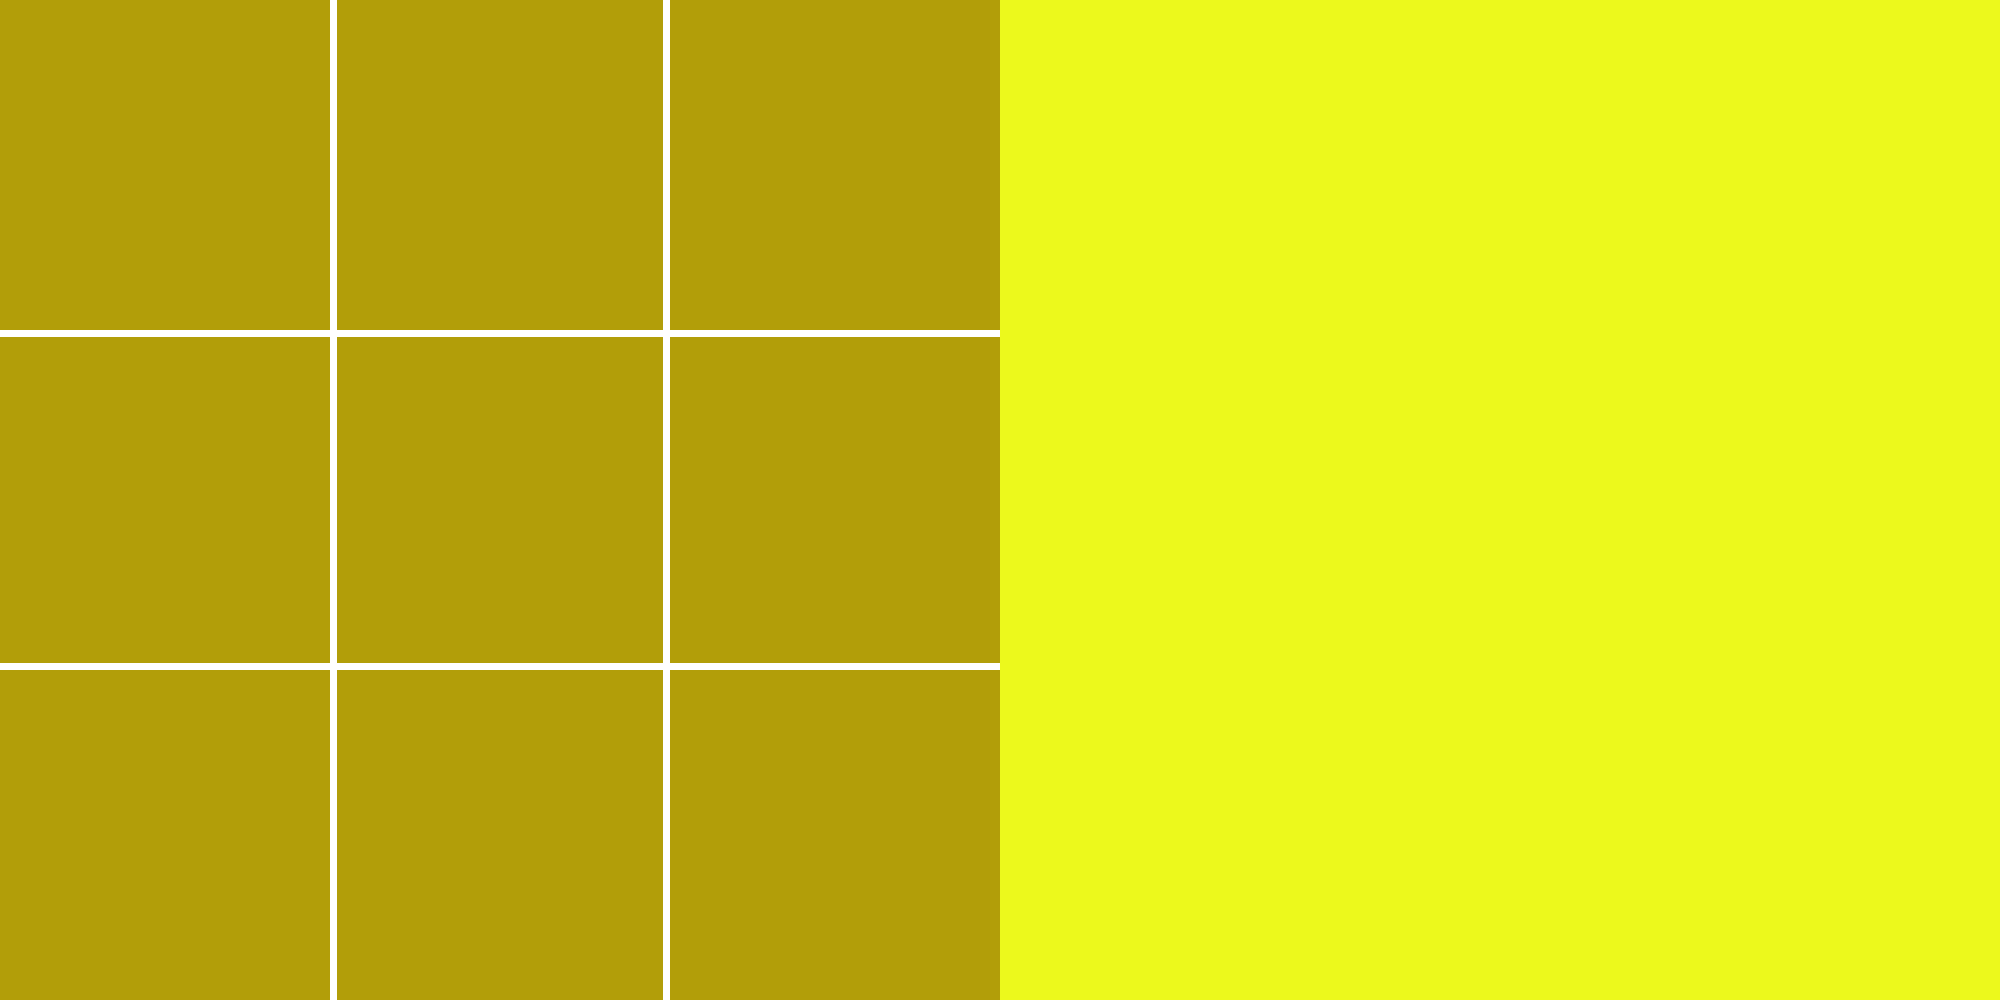
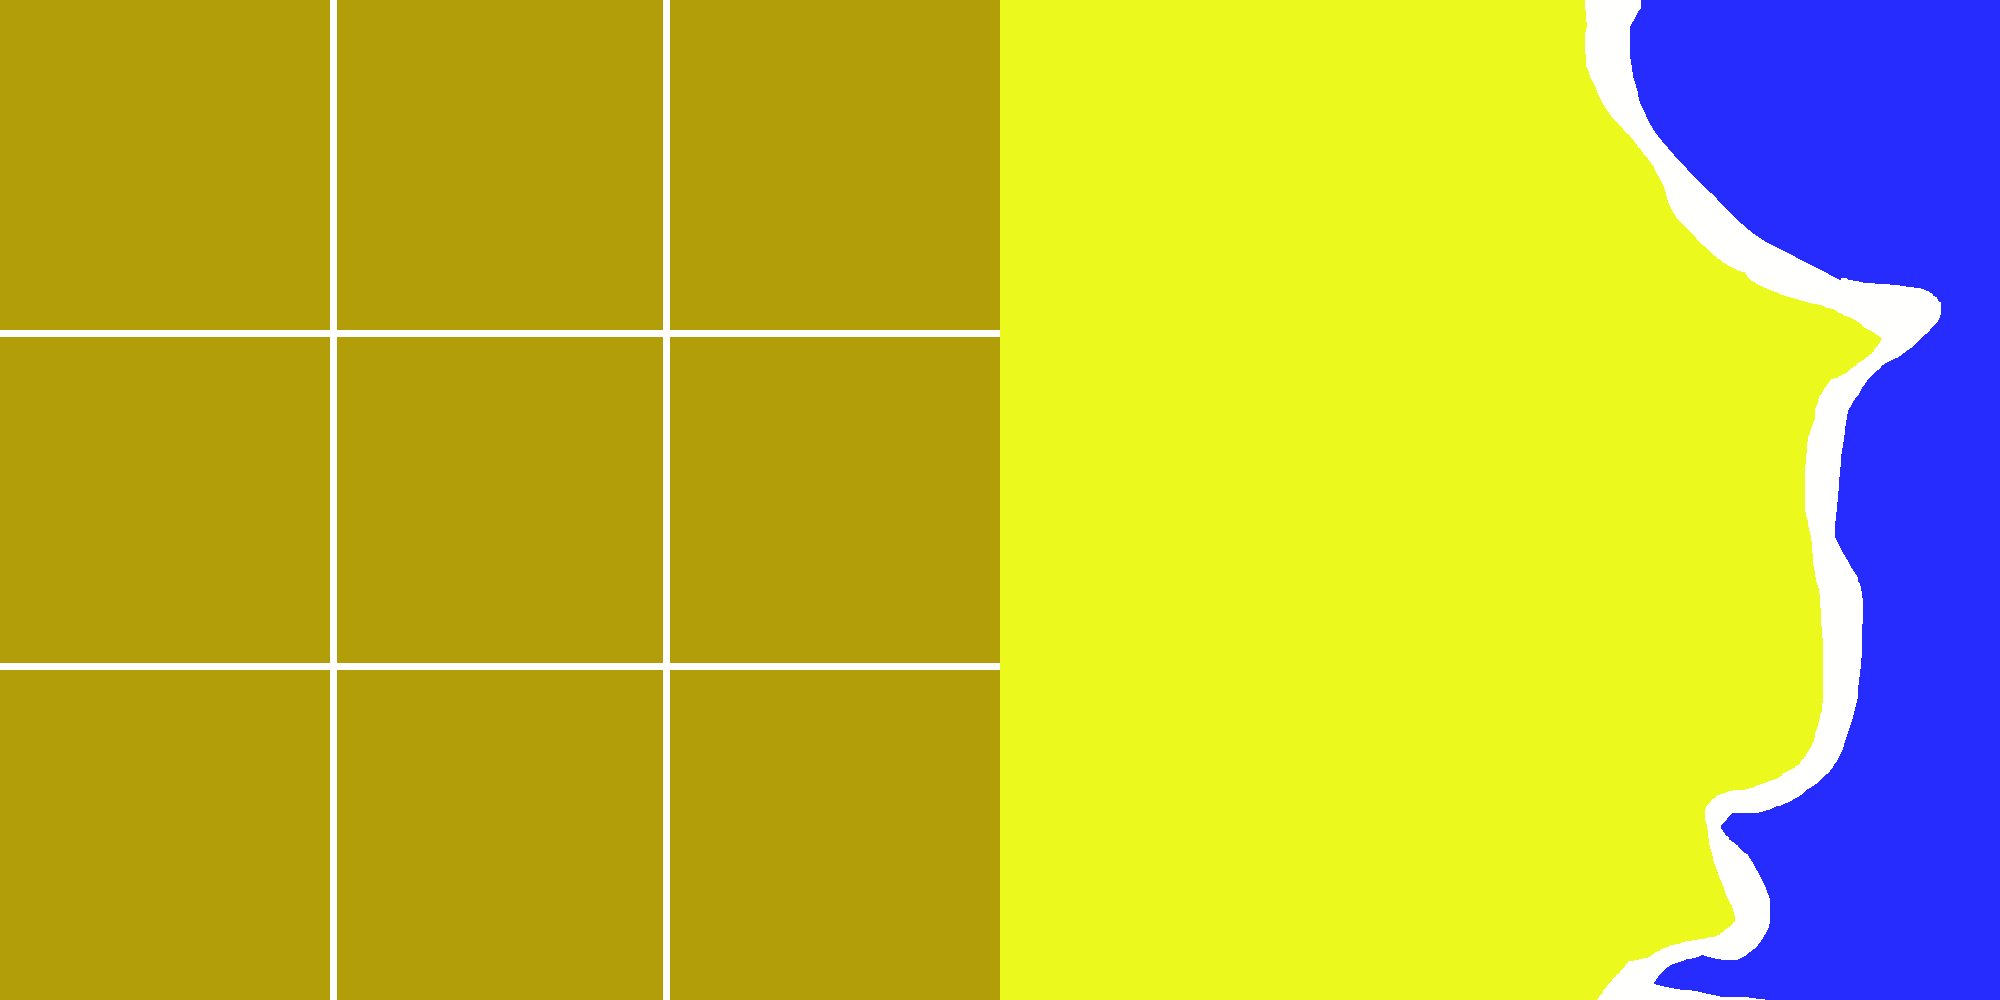
Ajout d'un écran de démarrage + modif du bg du jeu

Changed region(s): [[0.775, 0.0, 1.0, 1.0]]

diff --git a/AffichageSDLS1.c b/AffichageSDLS1.c
@@ -813,7 +813,7 @@ void play_with_texture_1_1(SDL_Texture *my_texture, SDL_Window *window,SDL_Rende
       
     
 }
-void affichage(SDL_Texture *bg_texture,SDL_Texture *my_texture1,SDL_Texture *my_texture2,SDL_Texture *my_texture3,SDL_Texture *my_texture4,SDL_Texture *my_texture5,SDL_Texture *my_texture6,SDL_Window *window,SDL_Renderer *renderer){ 
+void affichage(SDL_Texture *bg_texture1, SDL_Texture *bg_texture2 ,SDL_Texture *my_texture1 ,SDL_Texture *my_texture2,SDL_Texture *my_texture3,SDL_Texture *my_texture4,SDL_Texture *my_texture5,SDL_Texture *my_texture6,SDL_Window *window,SDL_Renderer *renderer){ 
     SDL_Rect  source1 = {0} ;
 
     SDL_QueryTexture(my_texture1, NULL, NULL,&source1.w, &source1.h);
@@ -826,25 +826,8 @@ void affichage(SDL_Texture *bg_texture,SDL_Texture *my_texture1,SDL_Texture *my_
     rouge = initialisationrectcoulrouge();
     grand = initialisationneutregrand();
     moyen = initialisationrectneutremoyen();
-
-
-    play_with_texture_1_1(bg_texture,window, renderer); 
-    SDL_RenderCopy(renderer,my_texture1, &source1, bleu->destination1);
-    SDL_RenderCopy(renderer,my_texture2, &source1, bleu->destination2);
-    SDL_RenderCopy(renderer,my_texture3, &source1, rouge->destination1); 
-    SDL_RenderCopy(renderer,my_texture4, &source1, rouge->destination2);  
-    SDL_RenderCopy(renderer,my_texture5, &source1, grand->destination1);
-    SDL_RenderCopy(renderer,my_texture5, &source1, grand->destination2);
-    SDL_RenderCopy(renderer,my_texture5, &source1, grand->destination3);
-    SDL_RenderCopy(renderer,my_texture5, &source1, grand->destination4);
-    SDL_RenderCopy(renderer,my_texture6, &source1, moyen->destination1);
-    SDL_RenderCopy(renderer,my_texture6, &source1, moyen->destination2);
-    SDL_RenderCopy(renderer,my_texture6, &source1, moyen->destination3);
-    SDL_RenderCopy(renderer,my_texture6, &source1, moyen->destination4); 
-    SDL_RenderPresent(renderer);              // Affichage
-    SDL_Delay(80);            
-       
-
+    play_with_texture_1_1(bg_texture2,window, renderer); 
+    SDL_RenderPresent(renderer);
     bool run = true;
     int y=0;
     int x=0;
@@ -870,7 +853,7 @@ void affichage(SDL_Texture *bg_texture,SDL_Texture *my_texture1,SDL_Texture *my_
                     int d= c % 2;
                     
                     
-                    if (d==1){
+                    if (d==0){
                         x=event.button.x;
                         y=event.button.y;
                         SDL_Log(" coordonées du click x=%d , y= %d", x,y);
@@ -885,10 +868,7 @@ void affichage(SDL_Texture *bg_texture,SDL_Texture *my_texture1,SDL_Texture *my_
                         deplacement(bleu,rouge,grand,moyen,x,y,j,i);
                         
                     }
-                    
-                    
-                    
-                    play_with_texture_1_1(bg_texture,window, renderer); 
+                    play_with_texture_1_1(bg_texture1,window, renderer); 
                     SDL_RenderCopy(renderer,my_texture1, &source1, bleu->destination1);
                     SDL_RenderCopy(renderer,my_texture2, &source1, bleu->destination2);
                     SDL_RenderCopy(renderer,my_texture3, &source1, rouge->destination1); 
@@ -923,11 +903,10 @@ int main(){
     SDL_Texture * l4 = l3;
     SDL_Texture * l5 = load("ImageSdl/Tours-grand.png",render);
     SDL_Texture * l6 = load("ImageSdl/Tours-petit.png",render);
-    
+    SDL_Texture * l7 = load("ImageSdl/Ecrandemarrage.png",render);
 
 
-
-    affichage(l,l1,l2,l3,l4,l5,l6,win,render);
+    affichage(l,l7,l1,l2,l3,l4,l5,l6,win,render);
     SDL_DestroyRenderer( render);
     SDL_DestroyWindow(win);
     SDL_Quit();
